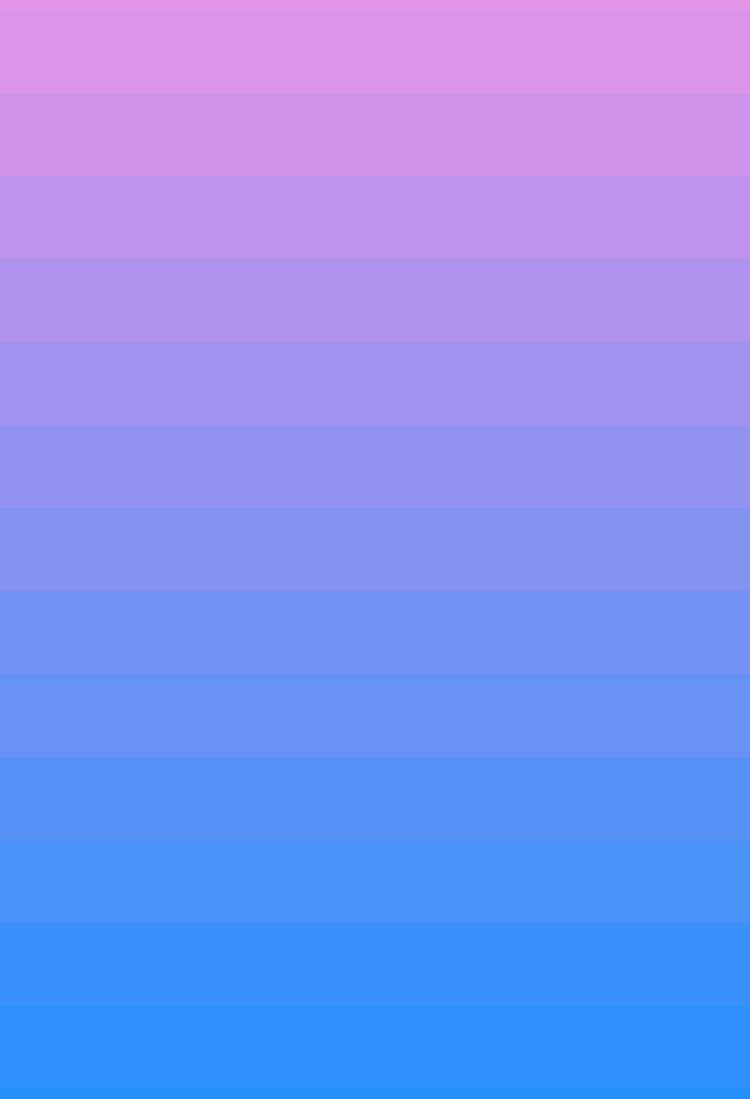
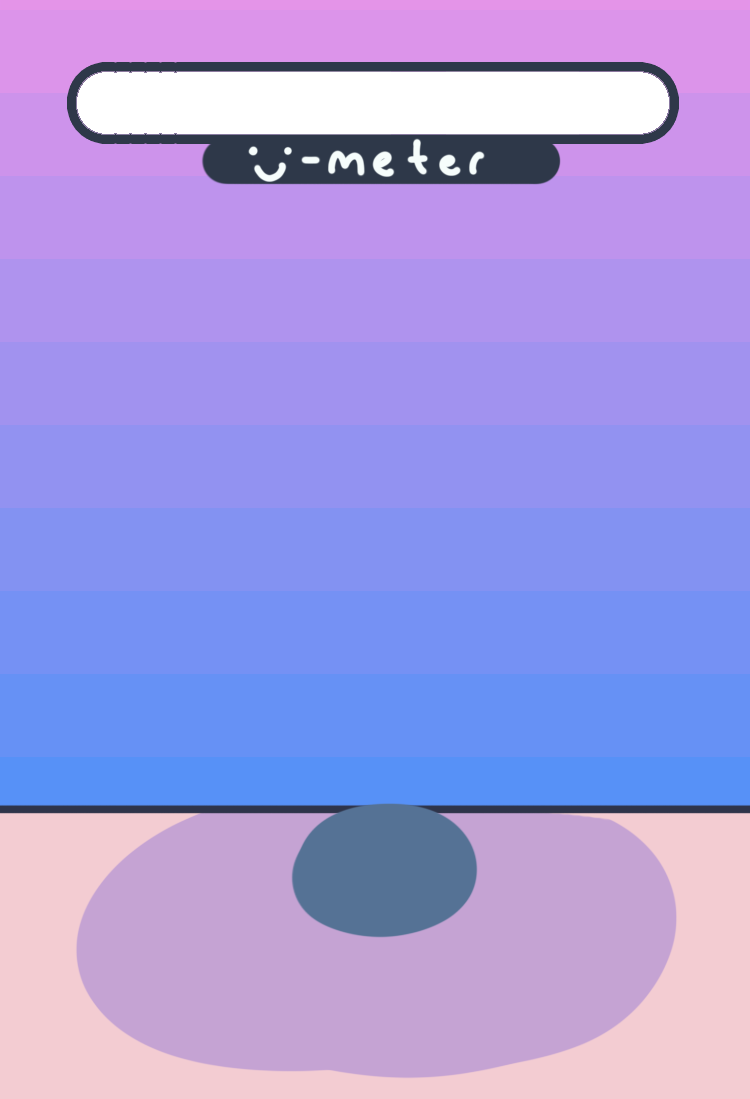
changes

diff --git a/e1.js b/e1.js
@@ -4,8 +4,18 @@ class e1 extends Phaser.Scene {
     }
     preload(){
         this.load.image('bg','assets/bg.png');
+        this.load.image('char_h','assets/char_h.png');
+        this.load.image('char_m','assets/char_m.png');
+        this.load.image('char_s','assets/char_s.png');
+        this.load.image('b_feed','assets/b_feed.png');
+        this.load.image('b_gift','assets/b_gift.png');
+        this.load.image('b_pet','assets/b_pet.png');
     }
     create(){
-        this.image = this.add.image(325,550,'bg');
+        this.image = this.add.image(375,550,'bg');
+        this.image = this.add.image(375,750,'char_m');
+        this.image = this.add.image(187,1000,'b_feed');
+        this.image = this.add.image(375,1000,'b_gift');
+        this.image = this.add.image(562,1000,'b_pet');
     }
 }
